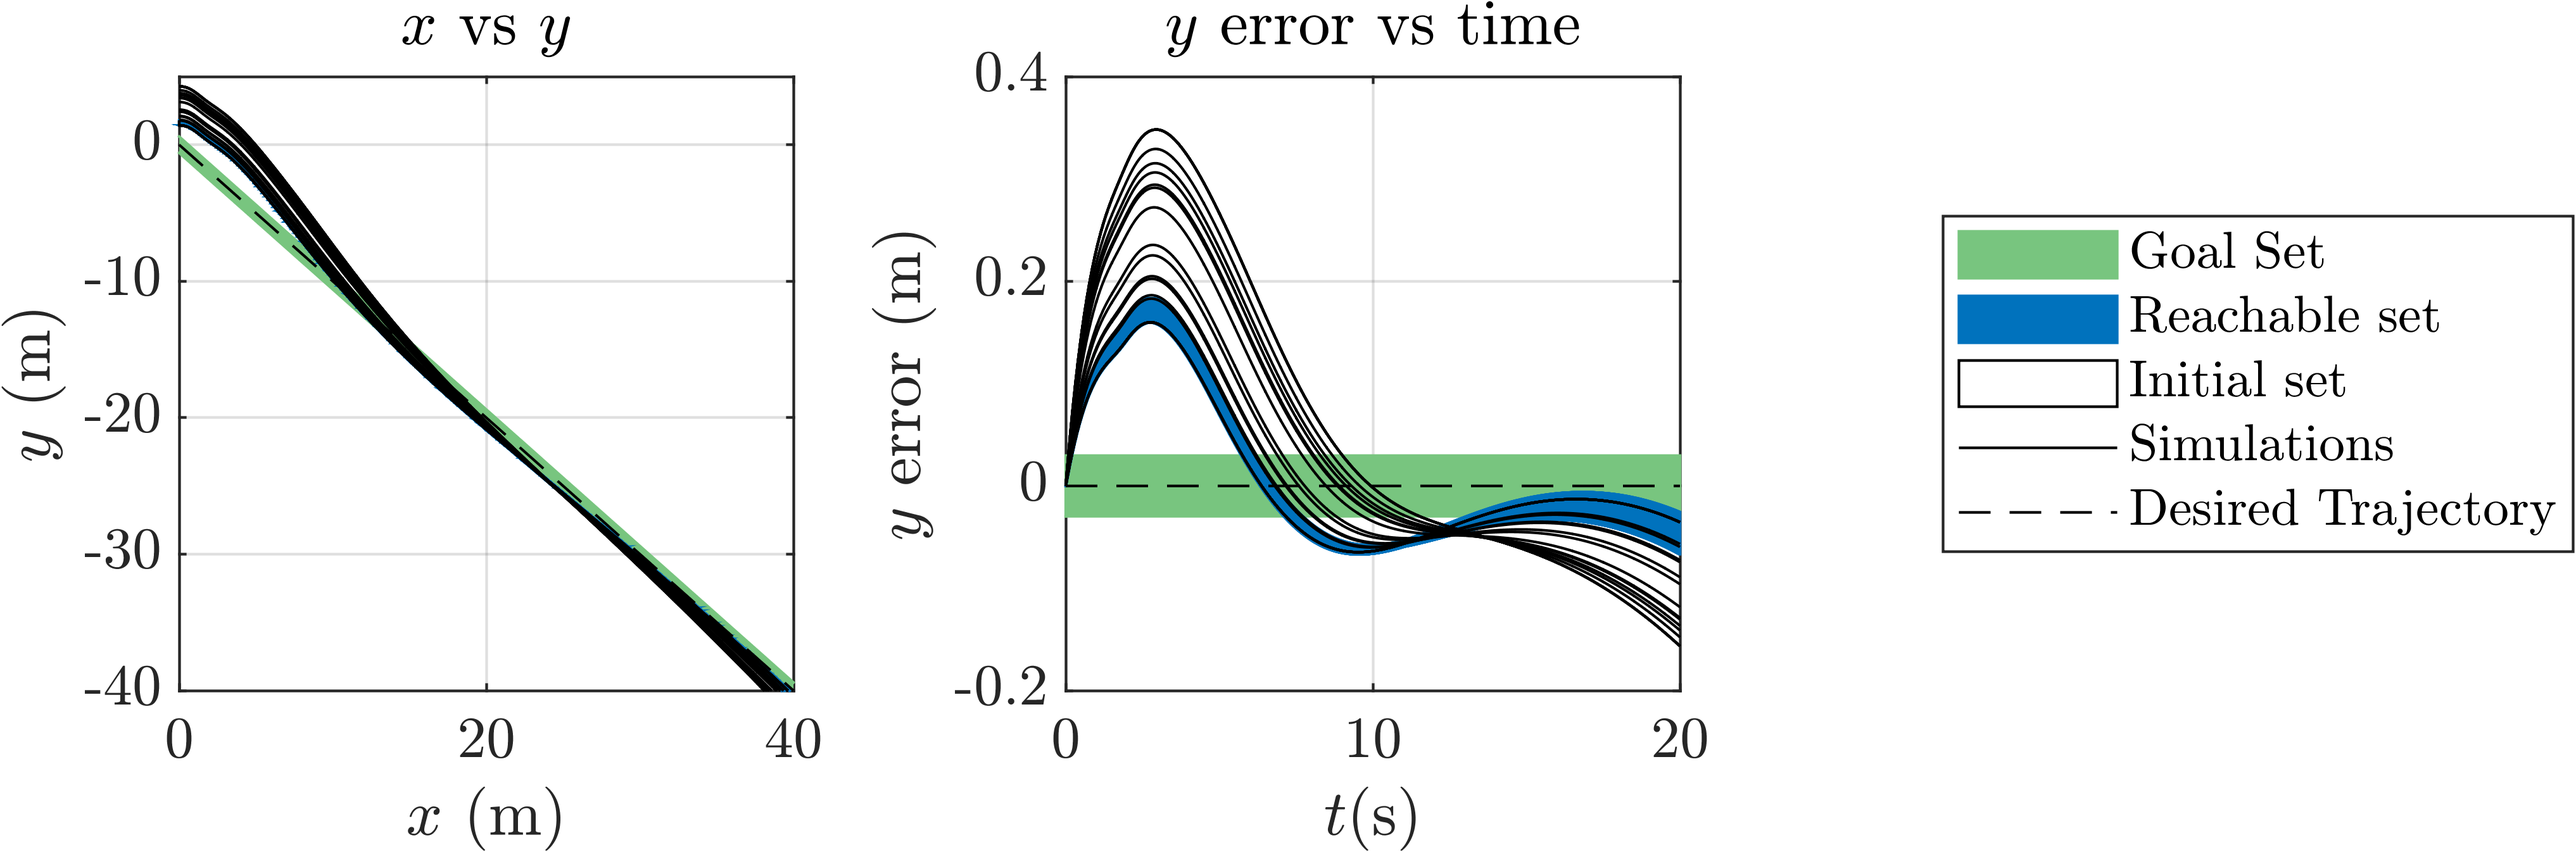
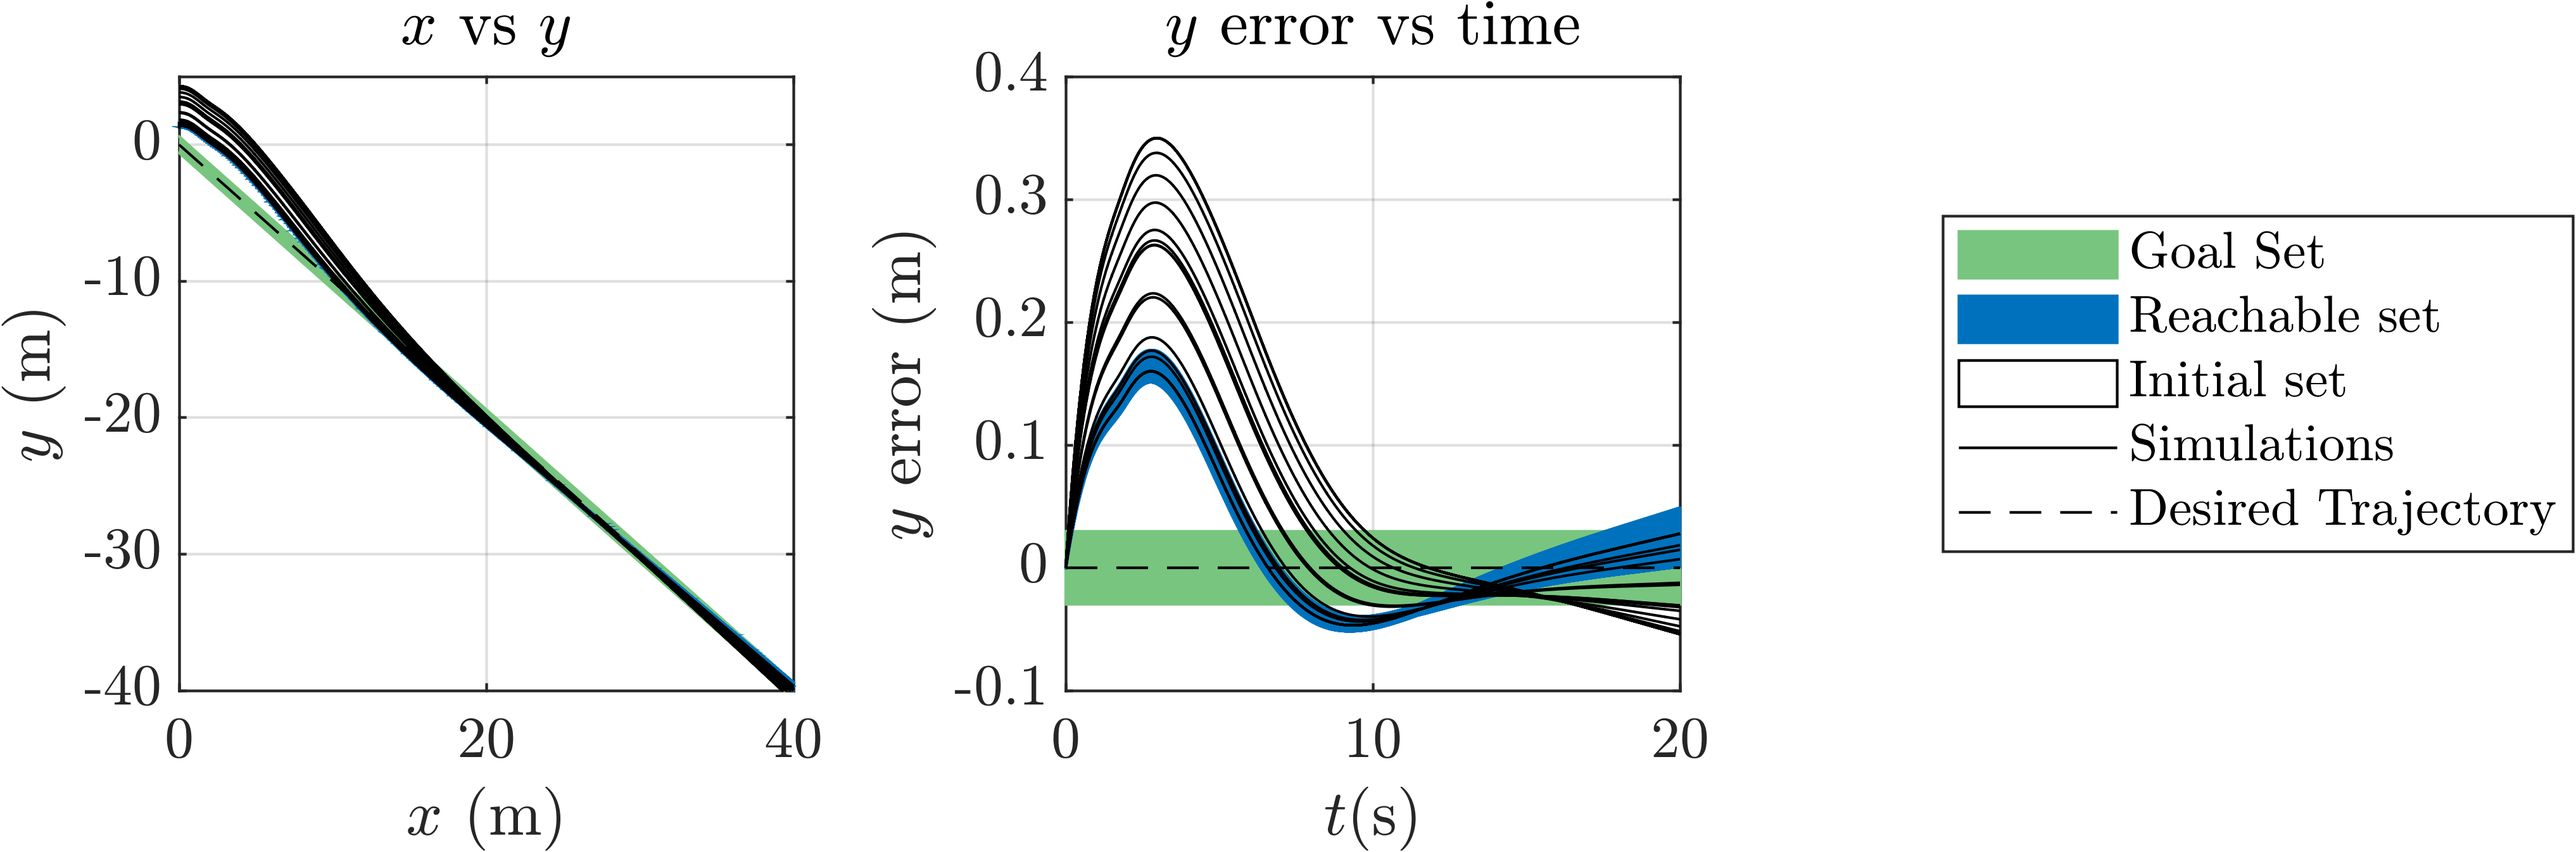
new training data, still trying to fix base model

diff --git a/Alsomitra_NNCS/Reachability/Alsomitra_Closed_Loop_Reachability.m b/Alsomitra_NNCS/Reachability/Alsomitra_Closed_Loop_Reachability.m
@@ -6,11 +6,11 @@ function [completed, R,simRes, dims] = Alsomitra_Closed_Loop_Reachability(networ
     params.tFinal = 20;
     % w = 0.05;
     % w = 0.02;
-    w = 0.05;
+    w = 0;
     
     params.R0 = polyZonotope(interval( ...
-        [1-w; 0-w; 0-w; 0-w; 0-w; 0.1/0.07-w; 0-w;],...
-        [1+w; 0+w; 0+w; 0+w; 0+w; 0.3/0.07+w; 0+w;]));
+        [1; 0; 0; 0; 0; 0.1/0.07-w; 0;],...
+        [1; 0; 0; 0; 0; 0.3/0.07+w; 0;]));
     
     % Reachability Settings ---------------------------------------------------
    
@@ -69,7 +69,7 @@ function [completed, R,simRes, dims] = Alsomitra_Closed_Loop_Reachability(networ
     plot([x_c1] * 1000/70, [y_c1]* 1000/70, '--black')
     daspect([1 1 1])
 
-    xlim([0 45]); ylim([-45 0])
+    xlim([0 50]); ylim([-55 5])
     % xlim([35 45]); ylim([-45 -35])
 
     title(network)
@@ -77,11 +77,14 @@ function [completed, R,simRes, dims] = Alsomitra_Closed_Loop_Reachability(networ
     t = tic;
     R = [];
     
-    % segments = 8;
+    segments = 8;
+    min_y = 0.1 - w;
+    max_y = 0.3 + w;
+    intervals = linspace(min_y, max_y, segments+1);
+
     % for i = 1:1
-    %     n = segments/0.2;
-    %     start_ = 0.1 + (i-1)/n;
-    %     end_ = 0.1 + i/n;
+    %     start_ = intervals(i);
+    %     end_ = intervals(i+1);
     %     params.R0 = polyZonotope(interval( ...
     %         [1; 0; 0; 0; 0; start_/0.07; 0;],...
     %         [1; 0; 0; 0; 0; end_/0.07; 0;]));
@@ -89,7 +92,6 @@ function [completed, R,simRes, dims] = Alsomitra_Closed_Loop_Reachability(networ
     % 
     %     % figure; hold on
     %     % 
-    %     % goalSet3 = interval([-999;-999;-999;-999;0;0;-sqrt(2)*0.3 * 0.07;],[999;999;999;999;0;0;sqrt(2)*0.3 * 0.07;]);
     %     % spec = specification(goalSet3, 'safeSet',interval(0, params.tFinal));
     %     % plotOverTime(spec, 7, 'DisplayName', 'Goal set');
     %     % plotOverTime(X, 7, 'DisplayName', 'Reachable set','FaceColor', [0 0.4470 0.7410]);
@@ -153,4 +155,5 @@ function [completed, R,simRes, dims] = Alsomitra_Closed_Loop_Reachability(networ
     % 
     % % call other plot file
     % plot_alsomitra_reachability
+    completed = true;
 end

diff --git a/Alsomitra_NNCS/Check_NN_Accuracy.m b/Alsomitra_NNCS/Check_NN_Accuracy.m
@@ -15,26 +15,26 @@ nn = importNetworkFromONNX('base_model.onnx',InputDataFormats='BC');
 L0 = lipschitz_robustness(nn,datafile);
 plot_results(nn,"base")
 
-nexttile
-nn = importNetworkFromONNX('adversarial_model_0.005.onnx',InputDataFormats='BC');
-L1 = lipschitz_robustness(nn,datafile);
-plot_results(nn,"adversarial (0.005)")
-
-nexttile
-nn = importNetworkFromONNX('adversarial_model_0.01.onnx',InputDataFormats='BC');
-L2 = lipschitz_robustness(nn,datafile);
-plot_results(nn,"adversarial (0.01)")
-
-nexttile
-nn = importNetworkFromONNX('adversarial_model_0.02.onnx',InputDataFormats='BC');
-L3 = lipschitz_robustness(nn,datafile);
-plot_results(nn,"adversarial (0.02)")
-
-nexttile
-nn = importNetworkFromONNX('adversarial_model_0.04.onnx',InputDataFormats='BC');
-L4 = lipschitz_robustness(nn,datafile);
-plot_results(nn,"adversarial (0.04)")
-answer = [L0;L1;L2;L3;L4]
+% nexttile
+% nn = importNetworkFromONNX('adversarial_model_0.005.onnx',InputDataFormats='BC');
+% L1 = lipschitz_robustness(nn,datafile);
+% plot_results(nn,"adversarial (0.005)")
+% 
+% nexttile
+% nn = importNetworkFromONNX('adversarial_model_0.01.onnx',InputDataFormats='BC');
+% L2 = lipschitz_robustness(nn,datafile);
+% plot_results(nn,"adversarial (0.01)")
+% 
+% nexttile
+% nn = importNetworkFromONNX('adversarial_model_0.02.onnx',InputDataFormats='BC');
+% L3 = lipschitz_robustness(nn,datafile);
+% plot_results(nn,"adversarial (0.02)")
+% 
+% nexttile
+% nn = importNetworkFromONNX('adversarial_model_0.04.onnx',InputDataFormats='BC');
+% L4 = lipschitz_robustness(nn,datafile);
+% plot_results(nn,"adversarial (0.04)")
+% answer = [L0;L1;L2;L3;L4]
 
 
 function L = lipschitz_robustness(nn,datafile)

diff --git a/Alsomitra_NNCS/Alsomitra_Control_Simulation.m b/Alsomitra_NNCS/Alsomitra_Control_Simulation.m
@@ -24,7 +24,7 @@ function Alsomitra_Control_simulation(network1)
     % Ss = data2(2,:);
     
     % NN or PID controller
-    nnc =  false;
+    nnc =  true;
     
     ObjectiveFunction = @Alsomitra_nondim;
     
